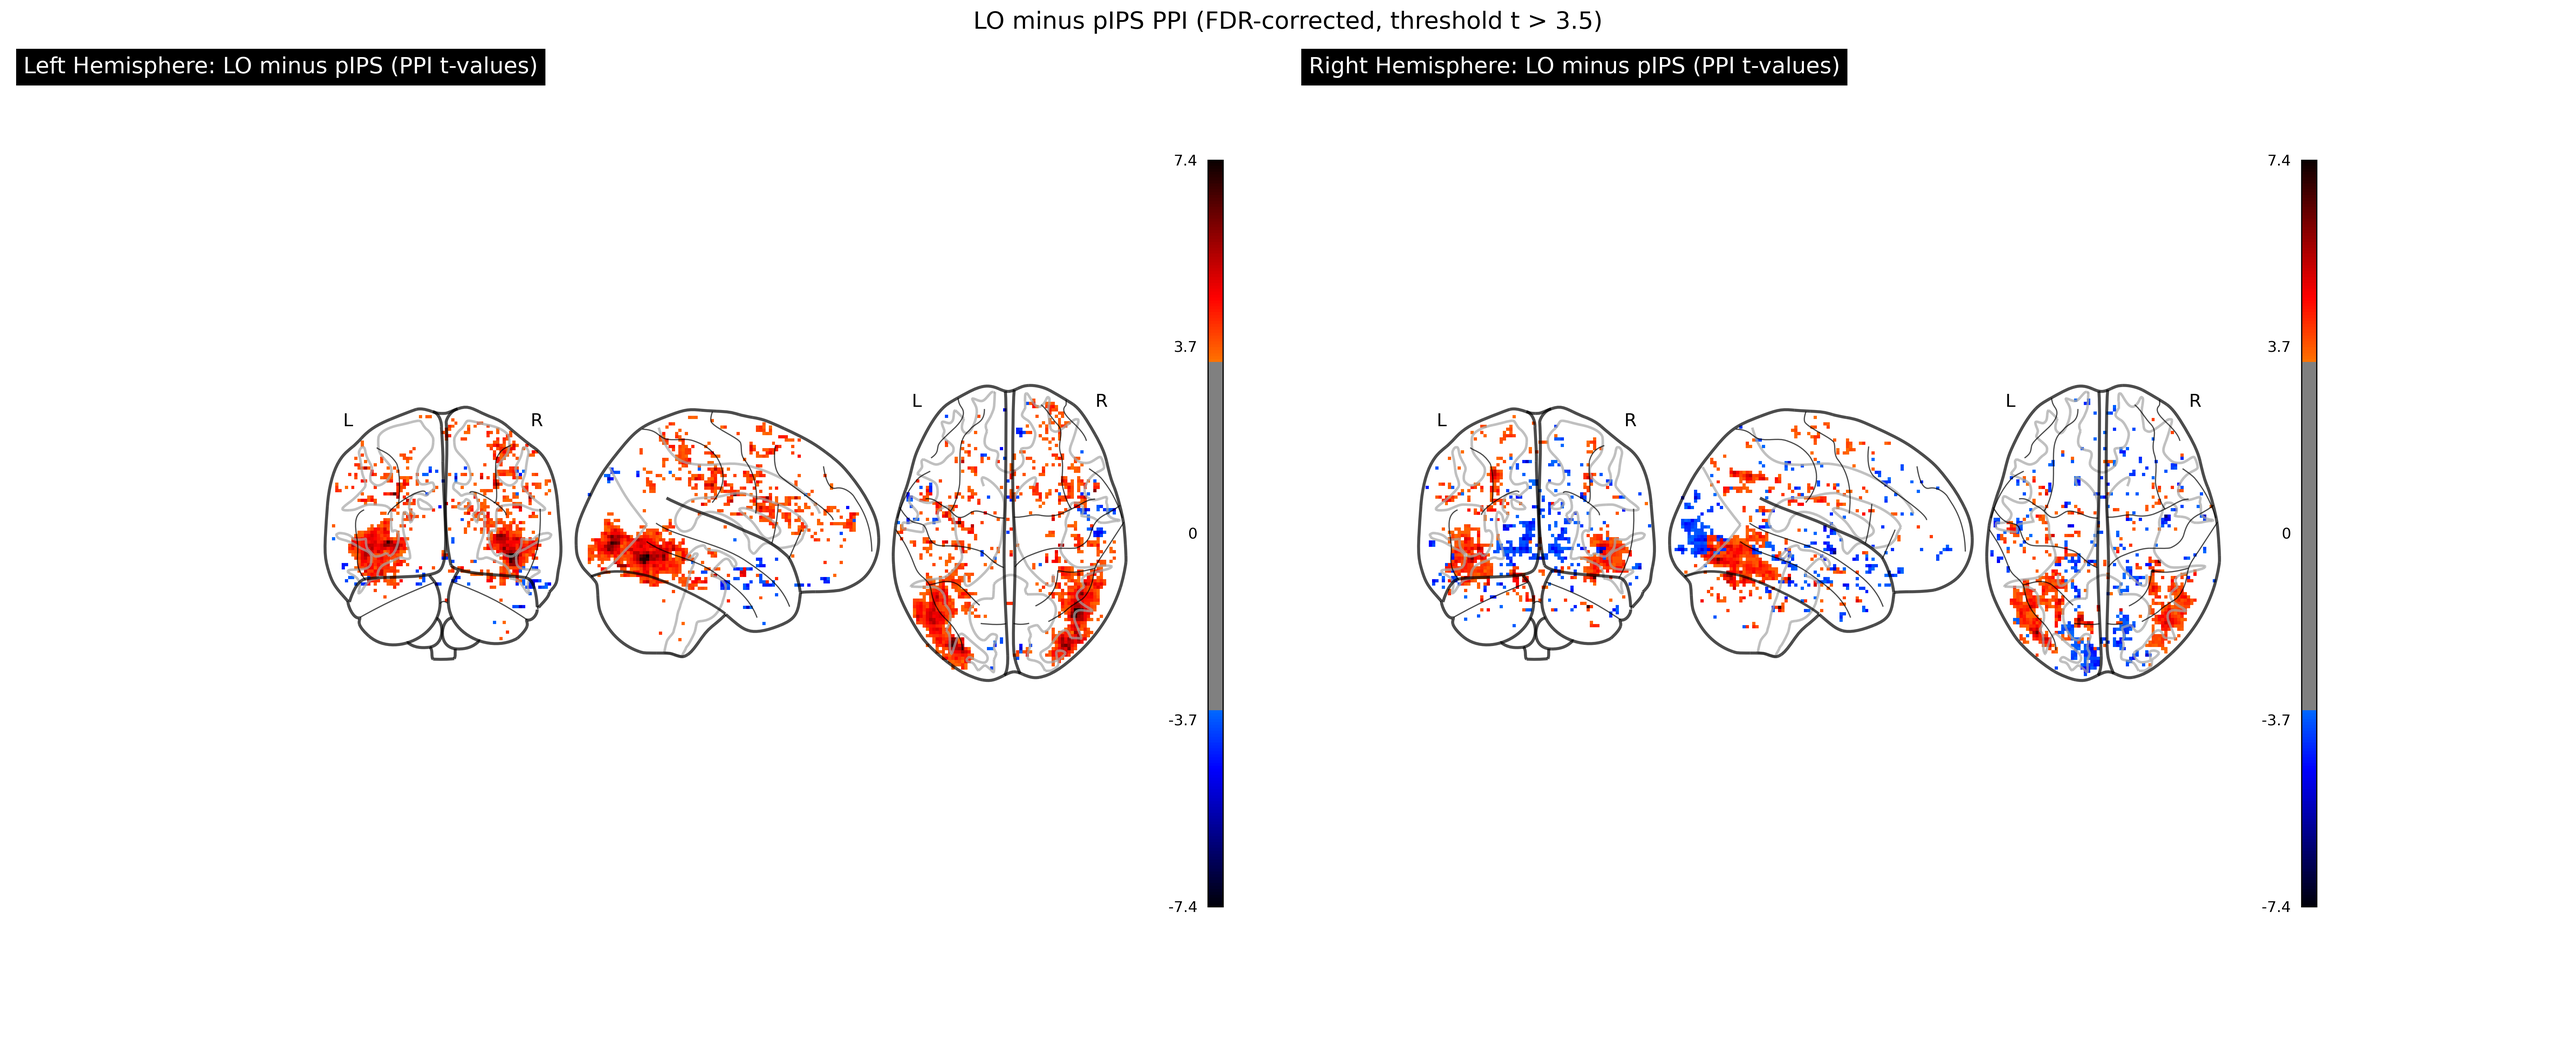
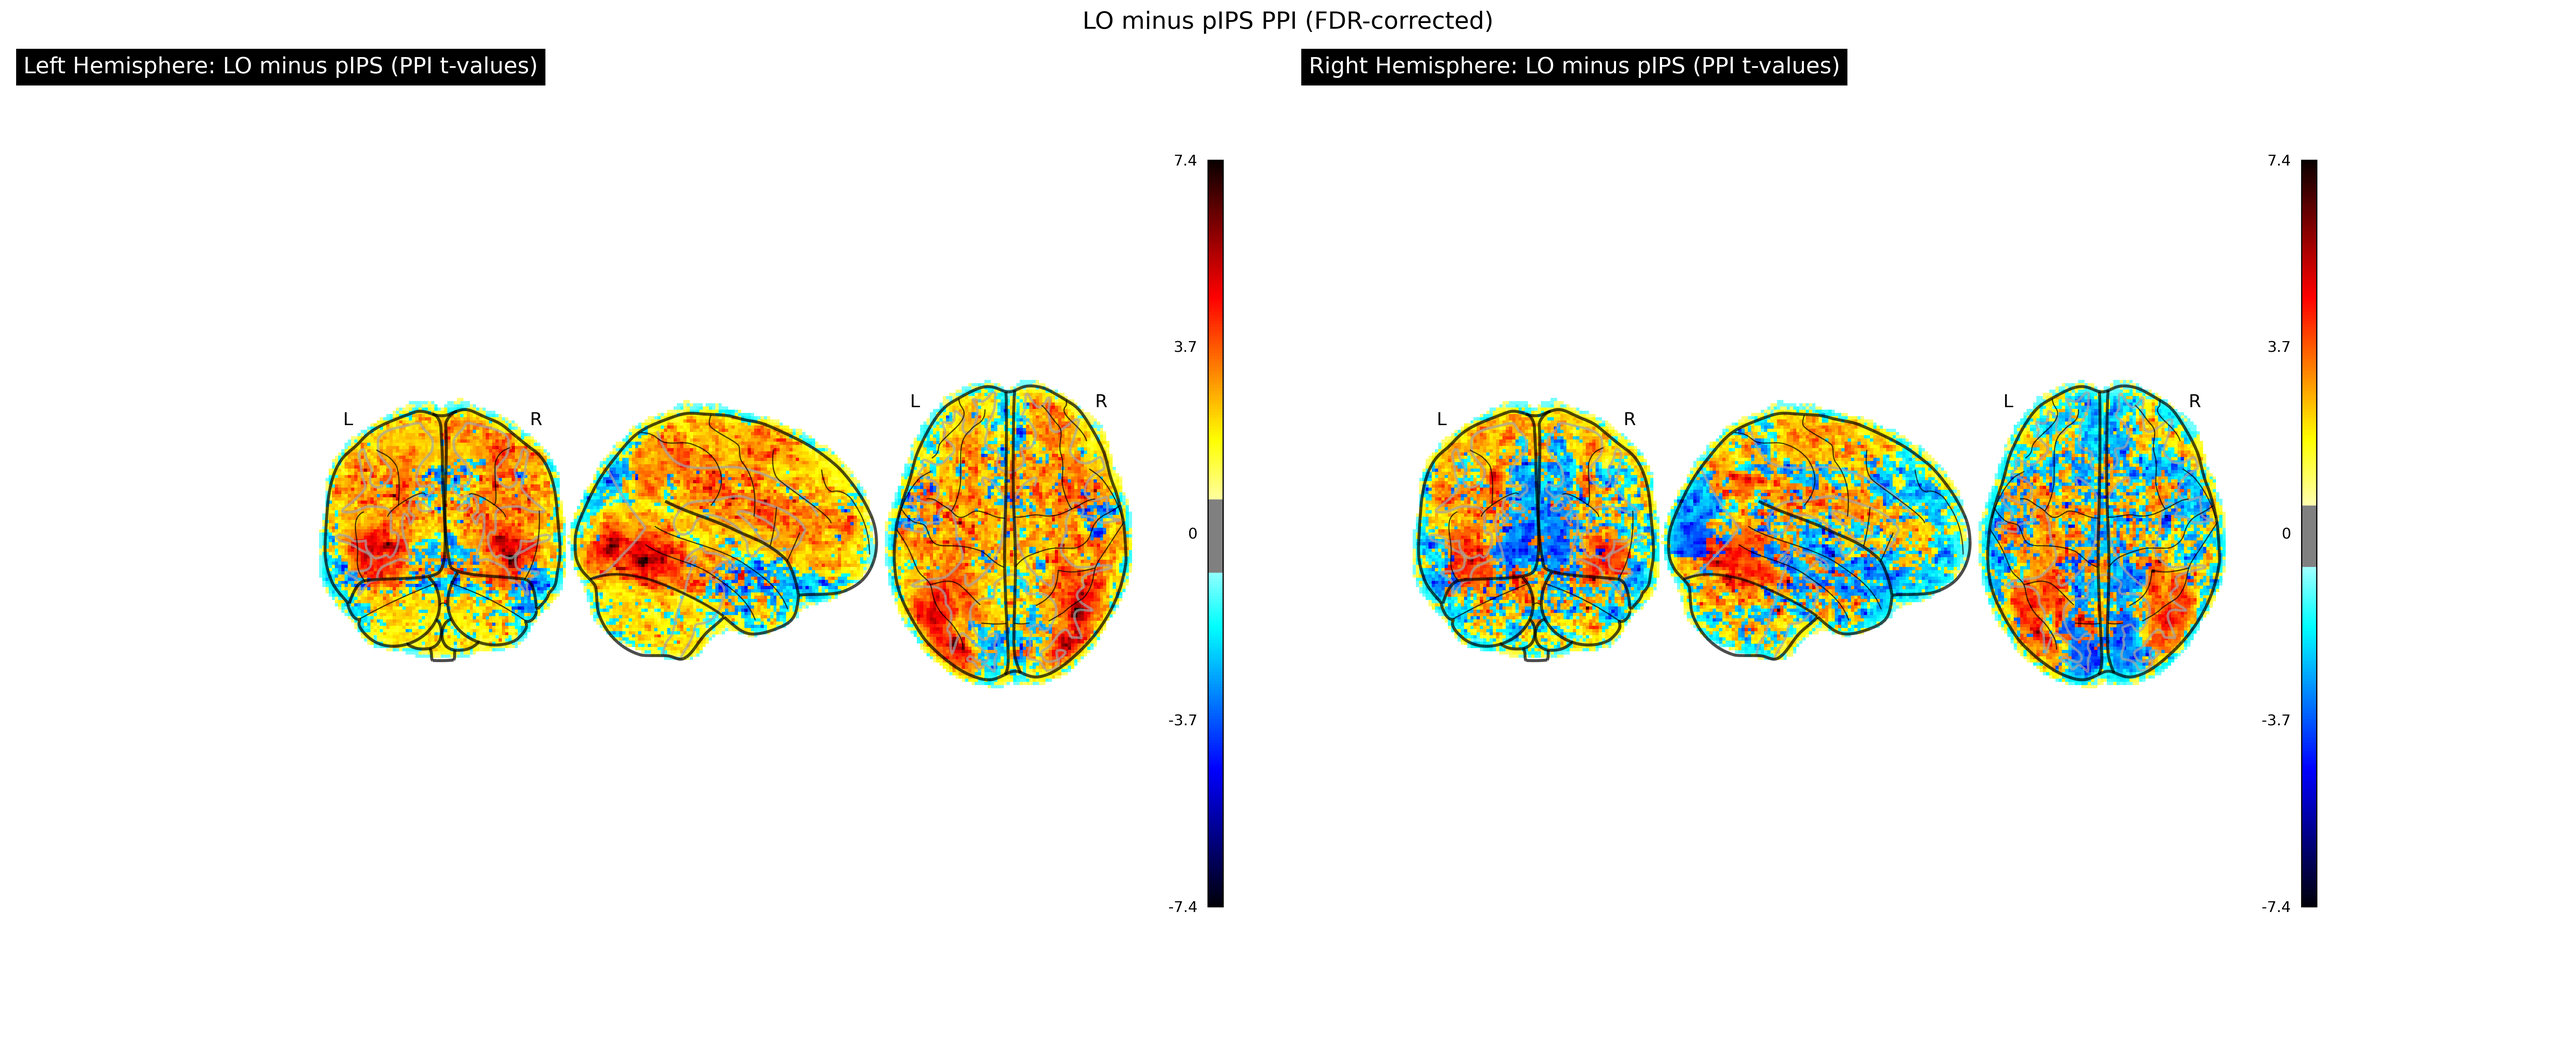
created new fdr corrected figures

diff --git a/being_verified/exp_1/subtraction/subtraction_fdr_thresh.py b/being_verified/exp_1/subtraction/subtraction_fdr_thresh.py
@@ -21,11 +21,15 @@ def load_and_subtract_fc_maps(pIPS_path, LO_path):
     if not os.path.exists(pIPS_path) or not os.path.exists(LO_path):
         return None
     
-    pIPS_map = image.load_img(pIPS_path)
-    LO_map = image.load_img(LO_path)
-    
-    difference_map = image.math_img("img1 - img2", img1=LO_map, img2=pIPS_map)
-    return difference_map
+    try:
+        pIPS_map = image.load_img(pIPS_path)
+        LO_map = image.load_img(LO_path)
+        
+        difference_map = image.math_img("img1 - img2", img1=LO_map, img2=pIPS_map)
+        return difference_map
+    except Exception as e:
+        print(f"Error processing {pIPS_path} or {LO_path}: {e}")
+        return None
 
 def safe_divide(a, b):
     """
@@ -36,86 +40,86 @@ def safe_divide(a, b):
         c[~np.isfinite(c)] = 0  # replace inf/NaN with 0
     return c
 
-def subject_level_analysis(subject_id, pIPS_path, LO_path, output_dir, hemi, analysis_type):
+def perform_group_analysis(subs, pIPS_path_template, LO_path_template, output_dir, analysis_type):
     """
-    Perform subject-level subtraction using FDR-corrected maps and save the result.
+    Perform subject-level subtractions and group-level t-tests for both hemispheres.
+    Save only the final group t-maps.
     """
-    # Construct paths to the FDR-corrected maps for this subject
-    pIPS_file = pIPS_path.format(subject_id=subject_id, hemi=hemi, analysis_type=analysis_type)
-    LO_file = LO_path.format(subject_id=subject_id, hemi=hemi, analysis_type=analysis_type)
+    # Dictionary to hold results
+    tmap_files = {}
     
-    difference_map = load_and_subtract_fc_maps(pIPS_file, LO_file)
-    if difference_map is None:
-        print(f"Warning: Files not found for subject {subject_id}, hemisphere {hemi}. Skipping.")
-        return None
-
-    # Save the subtraction result in the output directory
-    subtraction_file = os.path.join(output_dir, f'{subject_id}_LO_minus_pIPS_{hemi}_{analysis_type}_fdr.nii.gz')
-    difference_map.to_filename(subtraction_file)
+    # Process each hemisphere
+    for hemi in ['left', 'right']:
+        print(f"\nProcessing {hemi} hemisphere for {analysis_type}...")
+        
+        # Collect subtraction maps in memory
+        subtraction_maps = []
+        valid_sub_count = 0
+        
+        # Perform subject-level subtraction
+        for subject_id in tqdm(subs, desc=f"Processing subjects"):
+            # Construct paths to the individual subject maps
+            pIPS_file = pIPS_path_template.format(subject_id=subject_id, hemi=hemi, analysis_type=analysis_type)
+            LO_file = LO_path_template.format(subject_id=subject_id, hemi=hemi, analysis_type=analysis_type)
+            
+            # Perform subtraction
+            difference_map = load_and_subtract_fc_maps(pIPS_file, LO_file)
+            if difference_map is not None:
+                subtraction_maps.append(difference_map)
+                valid_sub_count += 1
+        
+        print(f"Completed processing {valid_sub_count} valid subjects for {hemi} hemisphere")
+        
+        if not subtraction_maps:
+            print(f"Error: No valid subtraction maps for {hemi} hemisphere. Skipping t-test.")
+            continue
+        
+        # Stack all maps into a 4D image
+        print(f"Creating 4D image from {len(subtraction_maps)} subtraction maps...")
+        stacked_maps = image.concat_imgs(subtraction_maps)
+        
+        # Perform voxel-wise one-sample t-test
+        print("Performing one-sample t-test...")
+        data = stacked_maps.get_fdata()
+        mean = np.mean(data, axis=-1)
+        std = np.std(data, axis=-1)
+        n = data.shape[-1]
+        t_values = safe_divide(mean, (std / np.sqrt(n)))
+        
+        # Create and save the t-map
+        t_map = image.new_img_like(subtraction_maps[0], t_values)
+        t_map_file = os.path.join(output_dir, f'group_ttest_LO_minus_pIPS_{hemi}_{analysis_type}_fdr.nii.gz')
+        t_map.to_filename(t_map_file)
+        tmap_files[hemi] = t_map_file
+        
+        print(f"Group-level t-map saved in {t_map_file}")
     
-    print(f"Subtraction complete for subject {subject_id}, hemisphere {hemi}, {analysis_type}. Result saved in {subtraction_file}")
-    return subtraction_file
+    return tmap_files
 
-def group_level_analysis(subtraction_files, output_dir, hemi, analysis_type):
+def visualize_tmaps(left_tmap_file, right_tmap_file, output_dir, analysis_type):
     """
-    Perform group-level t-test on subject subtraction maps and save the result.
-    """
-    if not subtraction_files:
-        print(f"Error: No valid subtraction files for {hemi} hemisphere. Skipping t-test.")
-        return None
-
-    # Load all subtraction maps
-    all_maps = [image.load_img(f) for f in subtraction_files]
-    
-    # Stack all maps into a 4D image
-    stacked_maps = image.concat_imgs(all_maps)
-
-    # Perform voxel-wise one-sample t-test
-    data = stacked_maps.get_fdata()
-    mean = np.mean(data, axis=-1)
-    std = np.std(data, axis=-1)
-    n = data.shape[-1]
-    t_values = safe_divide(mean, (std / np.sqrt(n)))
-
-    # Create and save the t-map
-    t_map = image.new_img_like(stacked_maps, t_values)
-    t_map_file = os.path.join(output_dir, f'group_ttest_LO_minus_pIPS_{hemi}_{analysis_type}_fdr.nii.gz')
-    t_map.to_filename(t_map_file)
-
-    print(f"Group-level analysis complete for {hemi} hemisphere, {analysis_type}. T-map saved in {t_map_file}")
-    return t_map_file
-
-def visualize_tmaps(left_tmap_file, right_tmap_file, output_dir, analysis_type, threshold=3.5):
-    """
-    Visualize t-maps with proper thresholding and colorbars.
+    Visualize t-maps without additional thresholding since data is already FDR-corrected.
     """
     # Check if files exist
     if not os.path.exists(left_tmap_file) or not os.path.exists(right_tmap_file):
         print("Error: T-map files not found. Cannot create visualizations.")
         return
-
-    # Function to load and threshold t-map
-    def load_and_threshold_tmap(file_path, threshold):
-        img = nib.load(file_path)
-        data = img.get_fdata()
-        thresholded_data = np.where(np.abs(data) > threshold, data, 0)
-        return nib.Nifti1Image(thresholded_data, img.affine, img.header)
-
-    # Load and threshold t-maps
-    left_tmap_thresholded = load_and_threshold_tmap(left_tmap_file, threshold)
-    right_tmap_thresholded = load_and_threshold_tmap(right_tmap_file, threshold)
-
+    
+    # Load t-maps
+    left_tmap = nib.load(left_tmap_file)
+    right_tmap = nib.load(right_tmap_file)
+    
     # Set a consistent scale for both hemispheres
-    vmax = max(np.max(np.abs(left_tmap_thresholded.get_fdata())), 
-               np.max(np.abs(right_tmap_thresholded.get_fdata())))
+    left_data = left_tmap.get_fdata()
+    right_data = right_tmap.get_fdata()
+    vmax = max(np.max(np.abs(left_data)), np.max(np.abs(right_data)))
     vmin = -vmax
-
+    
     # Create combined figure
     fig, axes = plt.subplots(1, 2, figsize=(24, 10))
     
     # Plot left hemisphere
-    plotting.plot_glass_brain(left_tmap_thresholded,
-                              threshold=threshold,
+    plotting.plot_glass_brain(left_tmap,
                               colorbar=True,
                               plot_abs=False,
                               vmin=vmin, vmax=vmax,
@@ -123,8 +127,7 @@ def visualize_tmaps(left_tmap_file, right_tmap_file, output_dir, analysis_type, 
                               axes=axes[0])
     
     # Plot right hemisphere
-    plotting.plot_glass_brain(right_tmap_thresholded,
-                              threshold=threshold,
+    plotting.plot_glass_brain(right_tmap,
                               colorbar=True,
                               plot_abs=False,
                               vmin=vmin, vmax=vmax,
@@ -132,7 +135,7 @@ def visualize_tmaps(left_tmap_file, right_tmap_file, output_dir, analysis_type, 
                               axes=axes[1])
     
     # Add overall title
-    plt.suptitle(f'LO minus pIPS {analysis_type.upper()} (FDR-corrected, threshold t > {threshold})', 
+    plt.suptitle(f'LO minus pIPS {analysis_type.upper()} (FDR-corrected)', 
                  fontsize=16, y=0.98)
     
     plt.tight_layout()
@@ -143,10 +146,9 @@ def visualize_tmaps(left_tmap_file, right_tmap_file, output_dir, analysis_type, 
     plt.close(fig)
     
     # Also create individual hemisphere figures
-    for hemi, tmap in zip(['left', 'right'], [left_tmap_thresholded, right_tmap_thresholded]):
+    for hemi, tmap in zip(['left', 'right'], [left_tmap, right_tmap]):
         fig_hemi, ax_hemi = plt.subplots(figsize=(15, 10))
         plotting.plot_glass_brain(tmap,
-                                  threshold=threshold,
                                   colorbar=True,
                                   plot_abs=False,
                                   vmin=vmin, vmax=vmax,
@@ -164,11 +166,10 @@ def visualize_tmaps(left_tmap_file, right_tmap_file, output_dir, analysis_type, 
     for hemi, tmap_file in zip(['left', 'right'], [left_tmap_file, right_tmap_file]):
         tmap = nib.load(tmap_file)
         data = tmap.get_fdata()
-        significant_voxels = np.sum(np.abs(data) > threshold)
         print(f"  {hemi.capitalize()} hemisphere:")
         print(f"    Max t-value: {np.max(data):.3f}")
         print(f"    Min t-value: {np.min(data):.3f}")
-        print(f"    Number of significant voxels: {significant_voxels}")
+        print(f"    Number of non-zero voxels: {np.sum(data != 0)}")
     
     print(f"\n  Scale range: {vmin:.3f} to {vmax:.3f}")
     print(f"  Combined figure saved as: {combined_fig_path}")
@@ -183,54 +184,38 @@ if __name__ == "__main__":
     subs = sub_info[sub_info['group'] == 'control']['sub'].tolist()
     
     # Define paths for input files (using FDR-corrected maps from the first script)
-    # Update these paths to point to the location of your FDR-corrected individual subject maps
     pIPS_path = f"{study_dir}/{{subject_id}}/ses-01/derivatives/fc_mni/{{subject_id}}_pIPS_{{hemi}}_loc_{{analysis_type}}_mni.nii.gz"
     LO_path = f"{study_dir}/{{subject_id}}/ses-01/derivatives/fc_mni/{{subject_id}}_LO_{{hemi}}_loc_{{analysis_type}}_mni.nii.gz"
     
-    # Define output directories
-    subtraction_out_dir = f'{curr_dir}/analyses/subtraction_fdr_corrected'
-    os.makedirs(subtraction_out_dir, exist_ok=True)
+    # Define output directory as requested
+    output_dir = f'{curr_dir}/results/group_averages'
+    os.makedirs(output_dir, exist_ok=True)
     
     # Define analysis types
     analysis_types = ['fc', 'ppi']
     
     # Process each analysis type
     for analysis_type in analysis_types:
-        print(f"\nProcessing {analysis_type.upper()} analysis...")
+        print(f"\n{'='*80}")
+        print(f"Processing {analysis_type.upper()} analysis...")
+        print(f"{'='*80}")
         
-        # Perform subject-level analysis and collect subtraction files
-        subtraction_files = {'left': [], 'right': []}
-        for subject_id in tqdm(subs, desc=f"Processing subjects for {analysis_type}"):
-            for hemi in ['left', 'right']:
-                subtraction_file = subject_level_analysis(
-                    subject_id, 
-                    pIPS_path, 
-                    LO_path, 
-                    subtraction_out_dir, 
-                    hemi,
-                    analysis_type
-                )
-                if subtraction_file:
-                    subtraction_files[hemi].append(subtraction_file)
+        # Perform group analysis and get t-map files
+        tmap_files = perform_group_analysis(
+            subs, 
+            pIPS_path, 
+            LO_path, 
+            output_dir, 
+            analysis_type
+        )
         
-        # Perform group-level analysis
-        tmap_files = {}
-        for hemi in ['left', 'right']:
-            tmap_files[hemi] = group_level_analysis(
-                subtraction_files[hemi], 
-                subtraction_out_dir, 
-                hemi,
-                analysis_type
-            )
-        
-        # Visualize t-maps
-        if tmap_files['left'] and tmap_files['right']:
+        # Visualize t-maps (without additional thresholding)
+        if 'left' in tmap_files and 'right' in tmap_files:
             visualize_tmaps(
                 tmap_files['left'],
                 tmap_files['right'],
-                subtraction_out_dir,
-                analysis_type,
-                threshold=3.5  # Adjust this threshold as needed
+                output_dir,
+                analysis_type
             )
         
     print("\nAnalysis and visualization completed for all analysis types.")

diff --git a/being_verified/exp_1/gca/threshold_results.py b/being_verified/exp_1/gca/threshold_results.py
@@ -14,7 +14,7 @@ import re
 # Define study directories
 study = 'ptoc'
 study_dir = f"/lab_data/behrmannlab/vlad/{study}"
-results_dir = '/user_data/csimmon2/git_repos/ptoc/results'
+results_dir = '/user_data/csimmon2/git_repos/ptoc/results/group_averages'
 sub_info_path = '/user_data/csimmon2/git_repos/ptoc/sub_info.csv'
 
 # FDR alpha level
